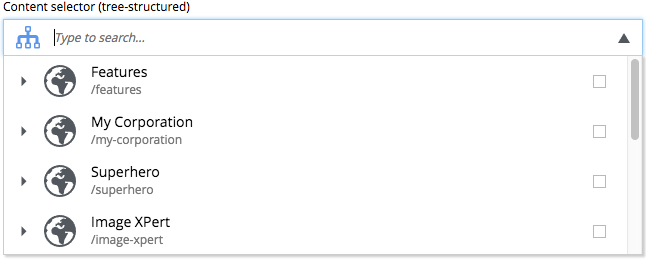
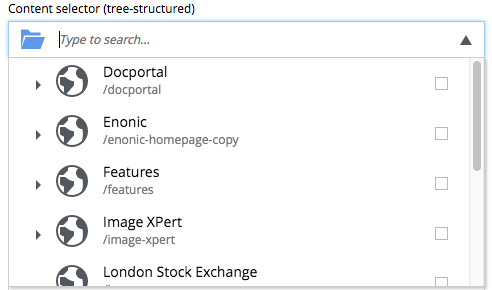
Updated screenshots for content/image selector, added description of gallery mode in image selector (#69)

diff --git a/doc/admin/contentstudio/inputs-selectors.rst b/doc/admin/contentstudio/inputs-selectors.rst
@@ -38,21 +38,34 @@ Content selectors allow the selection of one ore more existing content items. Th
 specific types of content and/or content that exists at a certain path of the content tree.
 
 Content selectors behave much like combo boxes. The down arrow in the right of the box opens the list. Typing in the search field will
-filter the content by name. When more than one content has been selected, the order my be changed by clicking and dragging the dotted area
-to the left of each content. Any selected content may be opened for editing by clicking the pencil icon. Selected content can be removed
+filter the content by name. When multiple content items have been selected, their order can be changed by clicking and dragging the dotted area
+to the left of each content. Any selected content can be opened for editing by clicking the pencil icon. Selected content can be removed
 with the X icon.
 
 .. image:: images/inputs-content-selector.png
+
+Content selector supports two modes of displaying content: flat (default) and tree. The mode can be switched by the toggler icon inside the input field.
+
+.. image:: images/inputs-content-selector-tree.png
 
 Image selector
 --------------
 
 Image selectors are much like content selectors except that they allow only image content to be selected. They also allow new image content
-to be created and selected by clicking the upload button to the right of the input. When multiple images are selected, the order can be
-changed by clicking and dragging the image previews. Clicking on a selected image will reveal **Edit** and **Remove** buttons.
+to be created and selected by clicking the upload button to the right of the input.
 
-.. image:: images/inputs-image-selector.jpg
+By default image selector is displaying content in the gallery mode with large thumbnail images:
 
+.. image:: images/inputs-image-selector-gallery.png
+
+Clicking the toggler icon inside the selector's input field will switch the selector into tree mode:
+
+.. image:: images/inputs-image-selector-tree.png
+
+Order of selected images can be changed by clicking and dragging the image thumbnails.
+Clicking on a selected image will reveal **Edit** and **Remove** buttons.
+
+.. image:: images/inputs-image-selector.png
 
 Tag
 ---
